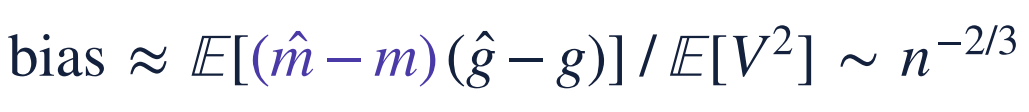
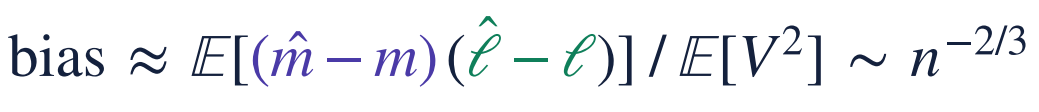
Slide 6: fix Double ML bias formula to use L (lapse model) not G
The bias term for the residual-on-residual estimator was written as
E[(m̂−m)(ĝ−g)]/E[V²]. But g is never fitted directly in this setup
(ℓ(X) = θ·m(X) + g(X), and only ℓ and m are estimated via ML — see
residualise.html's notes). Expanding the estimator's leading-order
error confirms the surviving cross term is E[(m̂−m)(ℓ̂−ℓ)]/E[V²]: the
product of the two actual nuisance errors, price model m and lapse
model ℓ.

Regenerated the formula image (final/formulas_final.py, f_b2) with ℓ̂−ℓ
colored aqua per the deck's M/L color coding (violet = price model m,
aqua = lapse model ℓ), updated the slide's caption/alt text and speaker
notes, and republished the live Slides artifact.

Claude-Session: https://claude.ai/code/session_01EjR3yYYaG6B1CybWnuywFQ

diff --git a/causal-pricing-deck/deck/project/slides/orthogonality.html b/causal-pricing-deck/deck/project/slides/orthogonality.html
@@ -13,8 +13,8 @@
     </div>
     <div style="display:flex; flex-direction:column; gap:4px; border-left:4px solid #2A78D6; padding:4px 0px 4px 24px">
       <p style="font-size:24px; font-weight:600; color:#14213D">Double ML</p>
-      <img src="/_blob/1d28f4fe678afc2362f4361a0f6df5b9" alt="bias approximately equals the expectation of the price-model error times the age-effect error, divided by the expectation of V squared, shrinking like n to the minus two thirds" style="width:515px; height:56px">
-      <p style="font-size:24px; line-height:1.35"><span style="color:#4A3AA7; font-weight:600">Price-model error</span> × age-effect error:<br>shrinks faster than the noise</p>
+      <img src="/_blob/b06b966ef60257f021f1833c6fc1e1df" alt="bias approximately equals the expectation of the price-model error times the lapse-model error, divided by the expectation of V squared, shrinking like n to the minus two thirds" style="width:520px; height:56px">
+      <p style="font-size:24px; line-height:1.35"><span style="color:#4A3AA7; font-weight:600">Price-model error</span> × <span style="color:#0F7F5A; font-weight:600">lapse-model error</span>:<br>shrinks faster than the noise</p>
     </div>
   </div>
   <div data-build-in="fade 4" style="position:absolute; left:1092px; top:703px; width:700px; display:flex; flex-direction:column; gap:10px; background:#F1F1EC; border-radius:12px; padding:20px 28px">
@@ -45,7 +45,7 @@ Builds
 - Click 3, the formulas ("∼" = shrinks like):
   - LightGBM: bias = price slope of (f̂ − f), one error. Early stopping keeps f̂ − f small, not flat in price → mutes the weak signal (±2 pp vs 29 pp).
   - 1,000 fixed rounds → slope 0.999, but hold-out loss worse (0.1901 → 0.1918): only the truth says when to stop.
-  - Double ML, ĝ = ℓ̂ − θ·m̂: θ̂ − θ = E[(m̂ − m)(ĝ − g)] / E[T̃²] + noise; E[T̃²] ≈ E[V²]. Only the product survives (Neyman orthogonality).
+  - Double ML: θ̂ − θ = E[(m̂ − m)(ℓ̂ − ℓ)] / E[T̃²] + noise; E[T̃²] ≈ E[V²]. Only the product of the two nuisance errors survives (Neyman orthogonality); g is never fitted, only ℓ and m are.
   - Textbook bound: ‖m̂ − m‖·(‖ℓ̂ − ℓ‖ + |θ|·‖m̂ − m‖) / E[V²].
 - Rates (typical orders, not laws):
   - Noise n^(−1/2); flexible ML fits e.g. n^(−1/3).

diff --git a/causal-pricing-deck/final/formulas_final.py b/causal-pricing-deck/final/formulas_final.py
@@ -51,7 +51,7 @@ F = {
  "f_s3":    [(r"\tilde{Y} \;\approx\; \hat{\theta}\,\tilde{T}", INK)],
  "f_s3x":   [(r"\tilde{Y} \;\approx\; \hat{\theta}(X)\,\tilde{T}", INK)],
  "f_b1":    [(r"\mathrm{bias} \;\approx\; \mathrm{price\ slope\ of}\;\,(\,\hat{f} - f\,) \;\sim\; n^{-1/3}", INK)],
- "f_b2":    [(r"\mathrm{bias} \;\approx\; \mathbb{E}[", INK), (r"(\hat{m} - m)", VI), (r"\,(\hat{g} - g)] \;/\; \mathbb{E}[V^{2}] \;\sim\; n^{-2/3}", INK)],
+ "f_b2":    [(r"\mathrm{bias} \;\approx\; \mathbb{E}[", INK), (r"(\hat{m} - m)", VI), (r"\,(", INK), (r"\hat{\ell} - \ell", AQ), (r")] \;/\; \mathbb{E}[V^{2}] \;\sim\; n^{-2/3}", INK)],
 }
 if __name__ == "__main__":
     sizes = {k: render(k, v) for k, v in F.items()}

diff --git a/causal-pricing-deck/README.md b/causal-pricing-deck/README.md
@@ -60,5 +60,5 @@ python3 render/render.py deck shots --builds   # local screenshots of every buil
   - LightGBM 0.16 at 2k, 0.63 at 20k, 0.82 at 200k.
 - Measured rates:
   - LightGBM bias ≈ n^−0.3;
-  - Double ML product term E[(m̂−m)(ĝ−g)]/E[V²] ≈ n^−0.8;
+  - Double ML product term E[(m̂−m)(ℓ̂−ℓ)]/E[V²] ≈ n^−0.8;
   - on the slide, as typical orders: n^−1/3 and n^−2/3.
